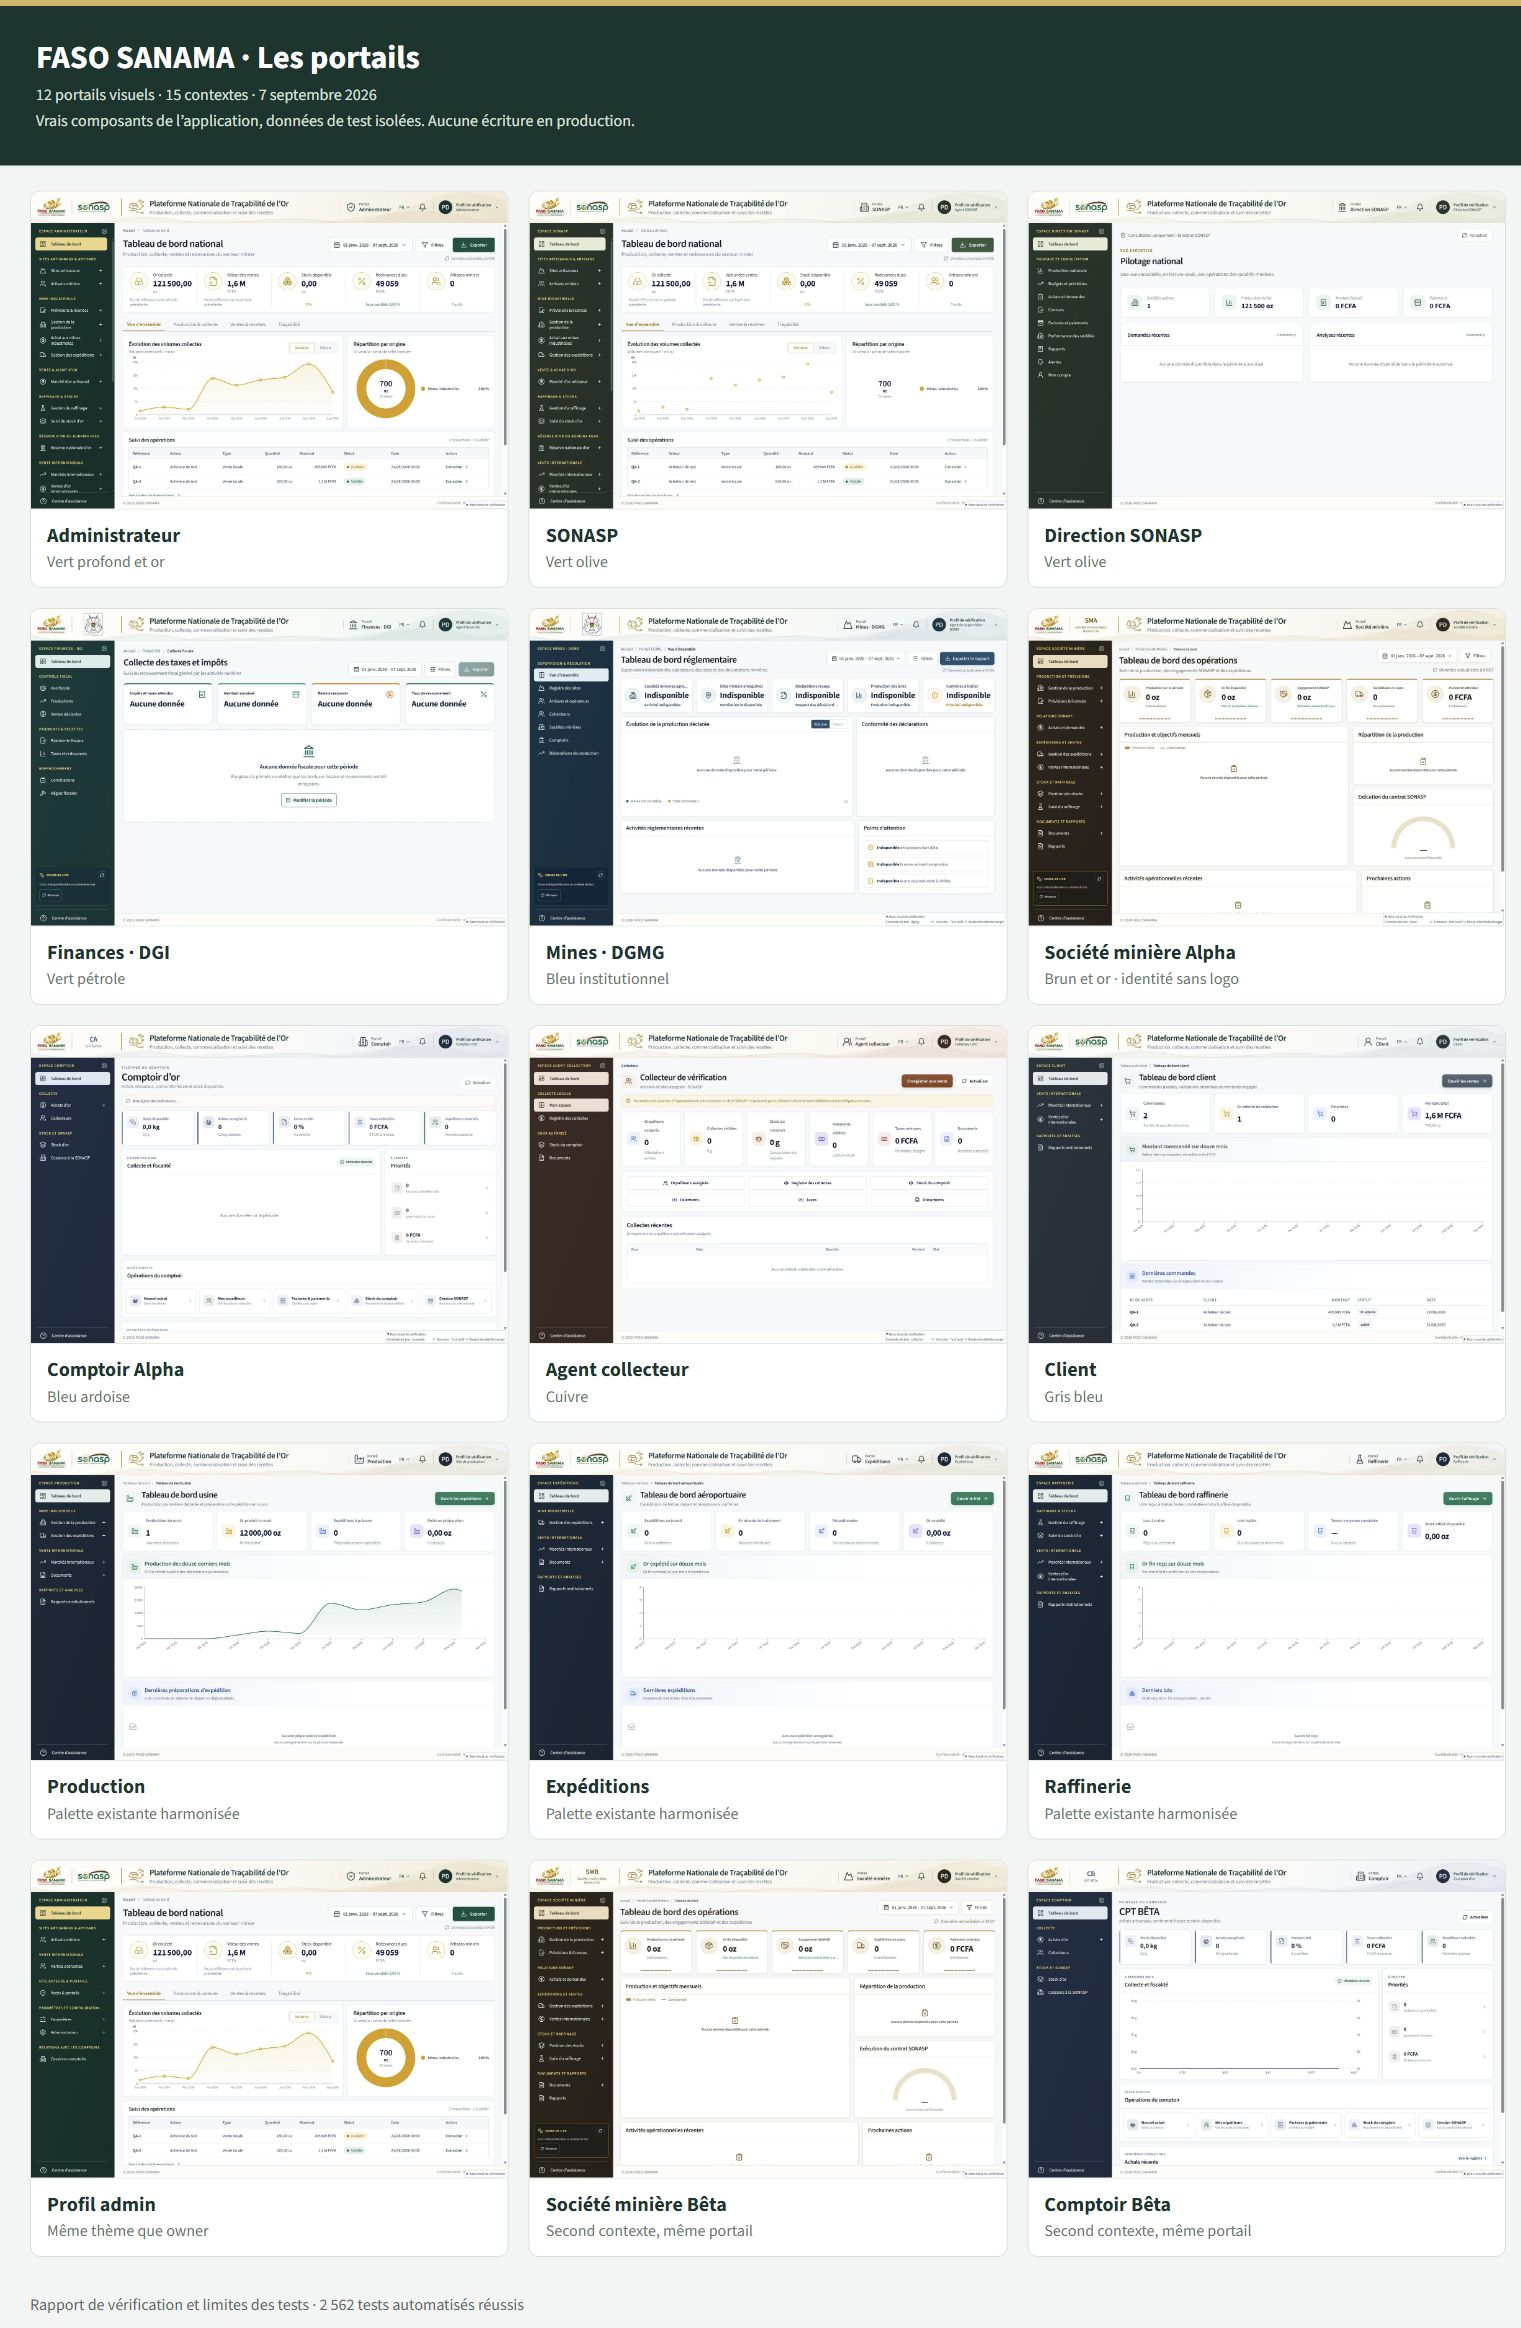
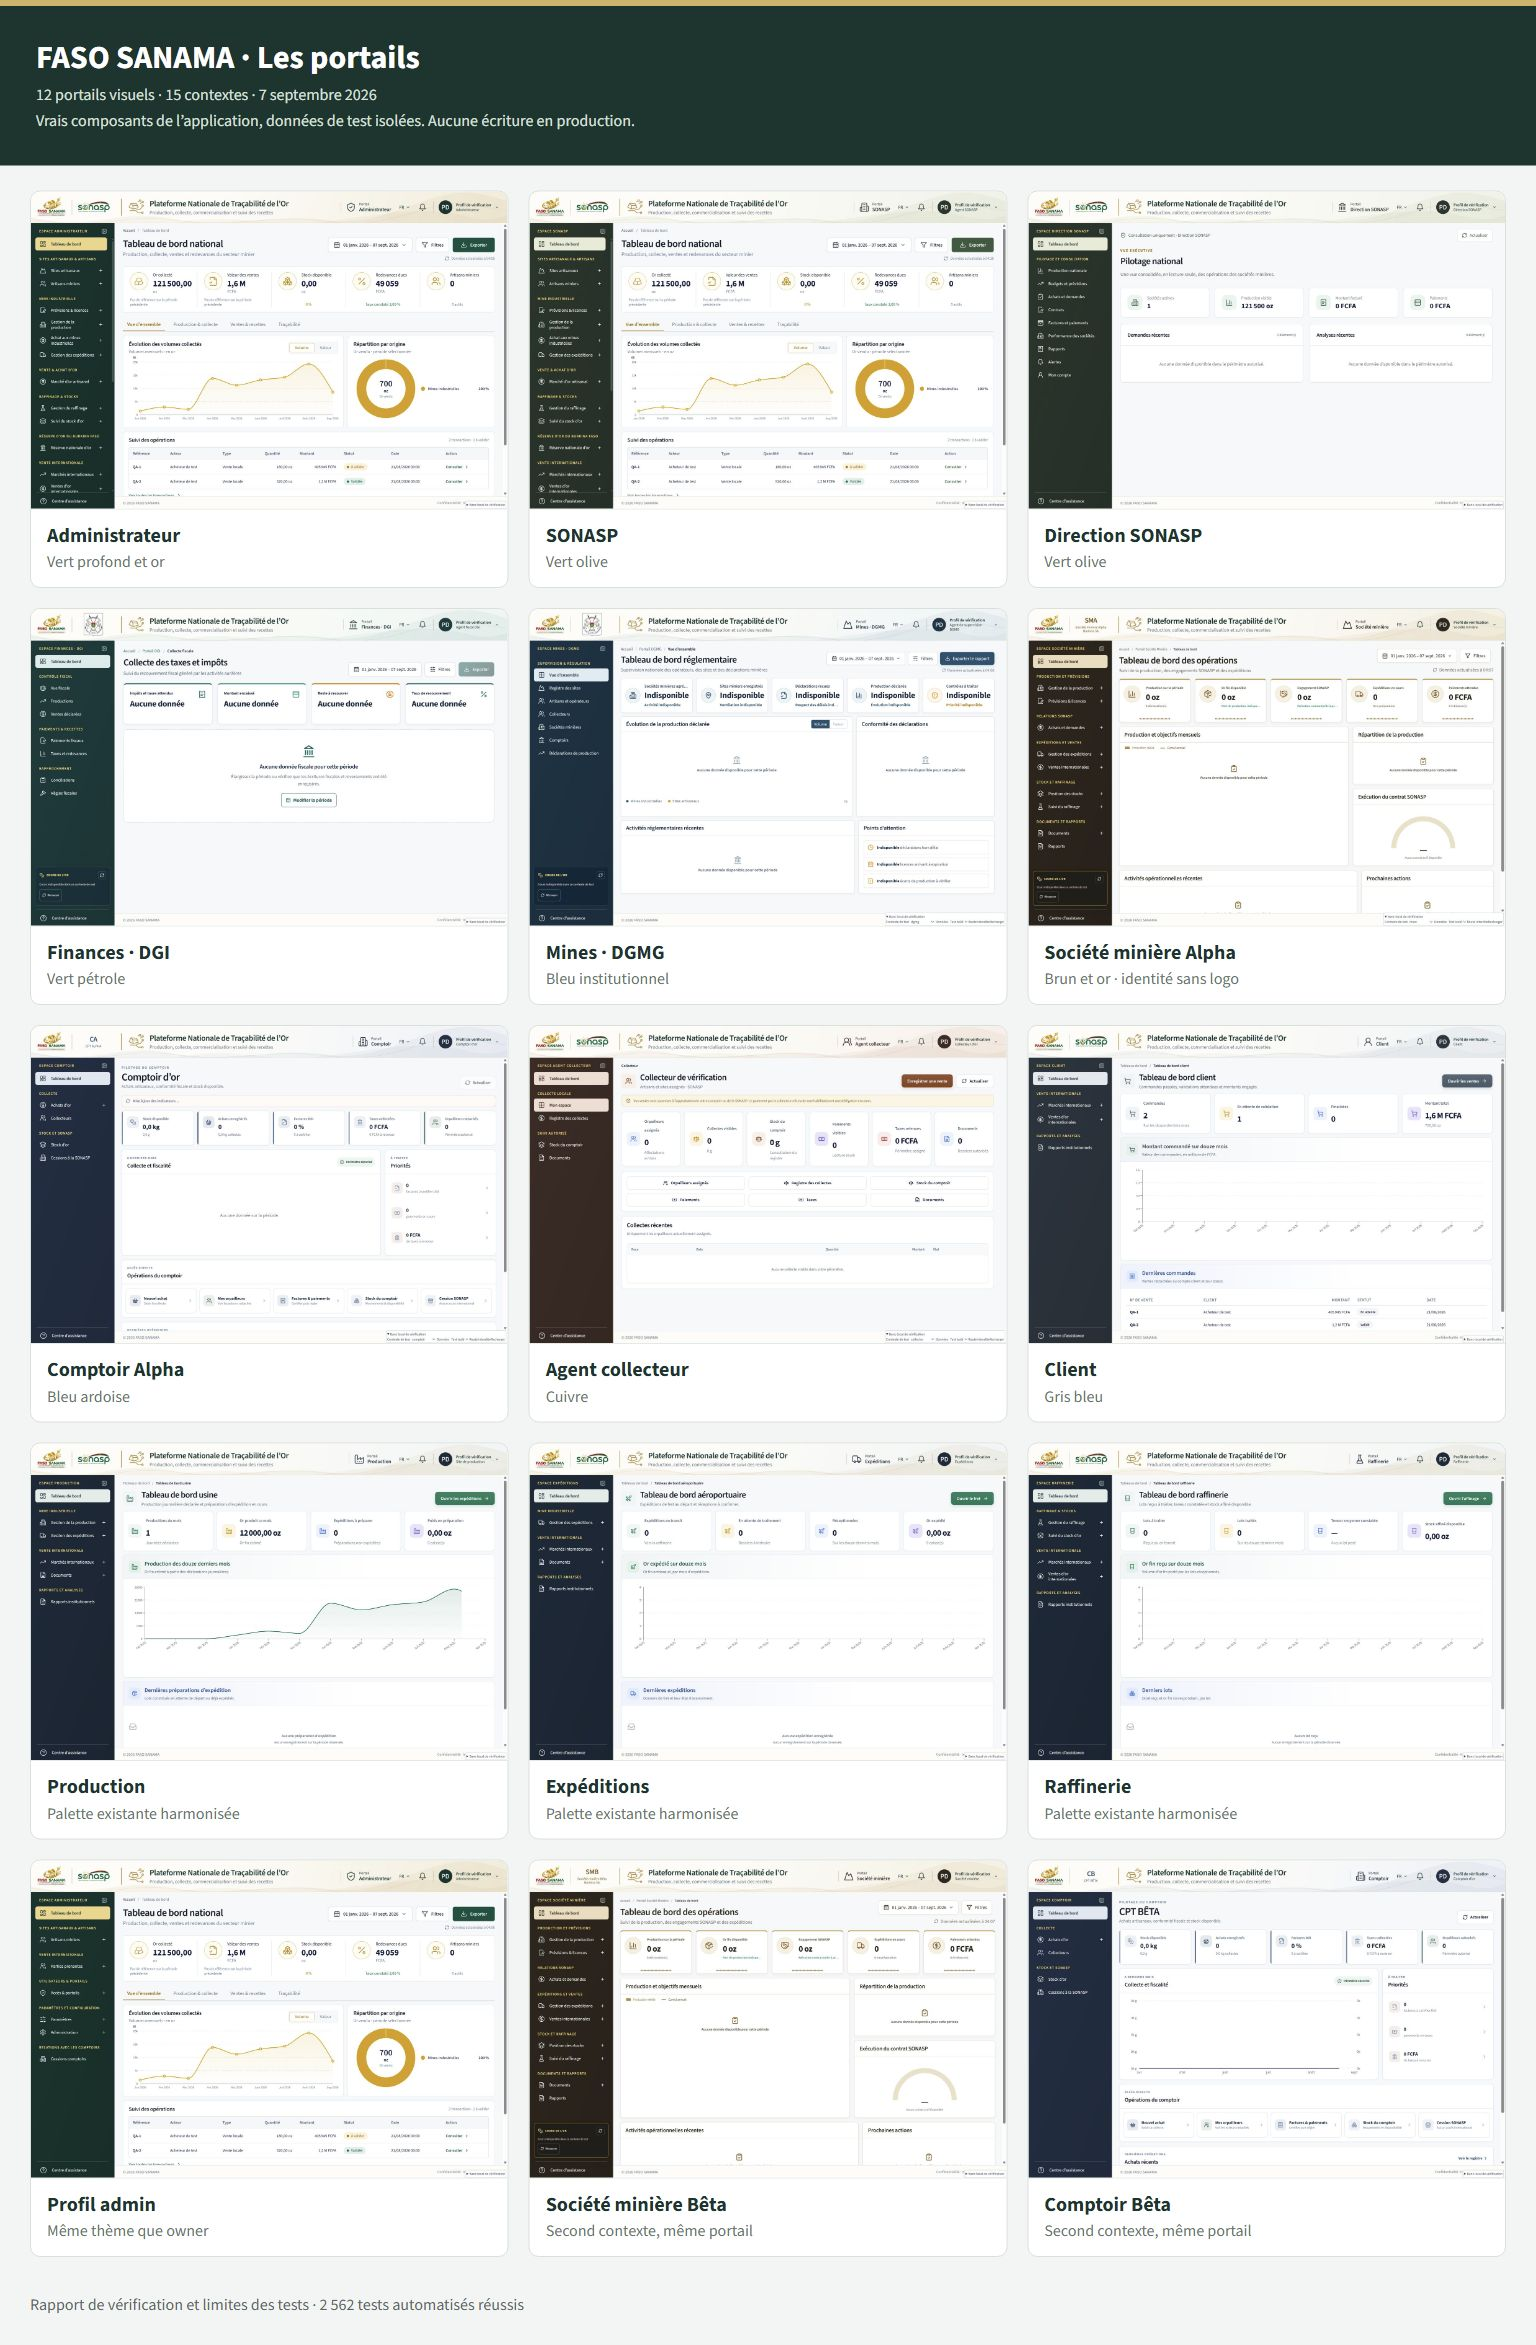
docs(qa): record portal release checks and final captures

diff --git a/docs/multiportail-qa/RAPPORT.md b/docs/multiportail-qa/RAPPORT.md
@@ -93,3 +93,13 @@ Le clic d’export a été effectué, mais la réception du téléchargement par
 Le zoom natif à 200 % n’a pas été confirmé par l’outil ; les six dimensions responsive ont été contrôlées séparément. Ne pas assimiler ces mesures à un test de zoom natif.
 
 Ces réserves empêchent d’affirmer une validation exhaustive de tous les workflows métier en production. Elles n’impliquent aucun changement de leurs données ni de leurs permissions.
+
+## Publication et contrôles distants
+
+L’implémentation est enregistrée dans le commit **8e801ed053e6** sur **SONASP_2026**. La compilation locale `npm run build:release` est réussie ; le point d’entrée local est http://127.0.0.1:5180/ (HTTP 200, police auto-hébergée HTTP 200).
+
+Les [contrôles GitHub du commit applicatif](https://github.com/romialfred/SONASP/actions/runs/34082469694) sont tous réussis : lint et TypeScript, **2 562 tests dans 348 fichiers**, compilation de production et audit des dépendances.
+
+Vercel a publié le commit applicatif sur https://sonasp.data-univers.com/ ; `/build-version.json` a renvoyé `8e801ed053e6-mtqqdslx`. Les mises à jour ultérieures de ce dossier de preuves ne changent pas les fichiers applicatifs.
+
+Le nouvel onglet de vérification en ligne affiche la connexion et ne rapporte pas d’erreur JavaScript. L’ancien onglet authentifié n’est plus contrôlable par l’outil. Une connexion de l’utilisateur a donc été demandée pour terminer le contrôle authentifié réel ; ce contrôle et la navigation vers un dossier métier réel ne sont **pas déclarés réussis**.
